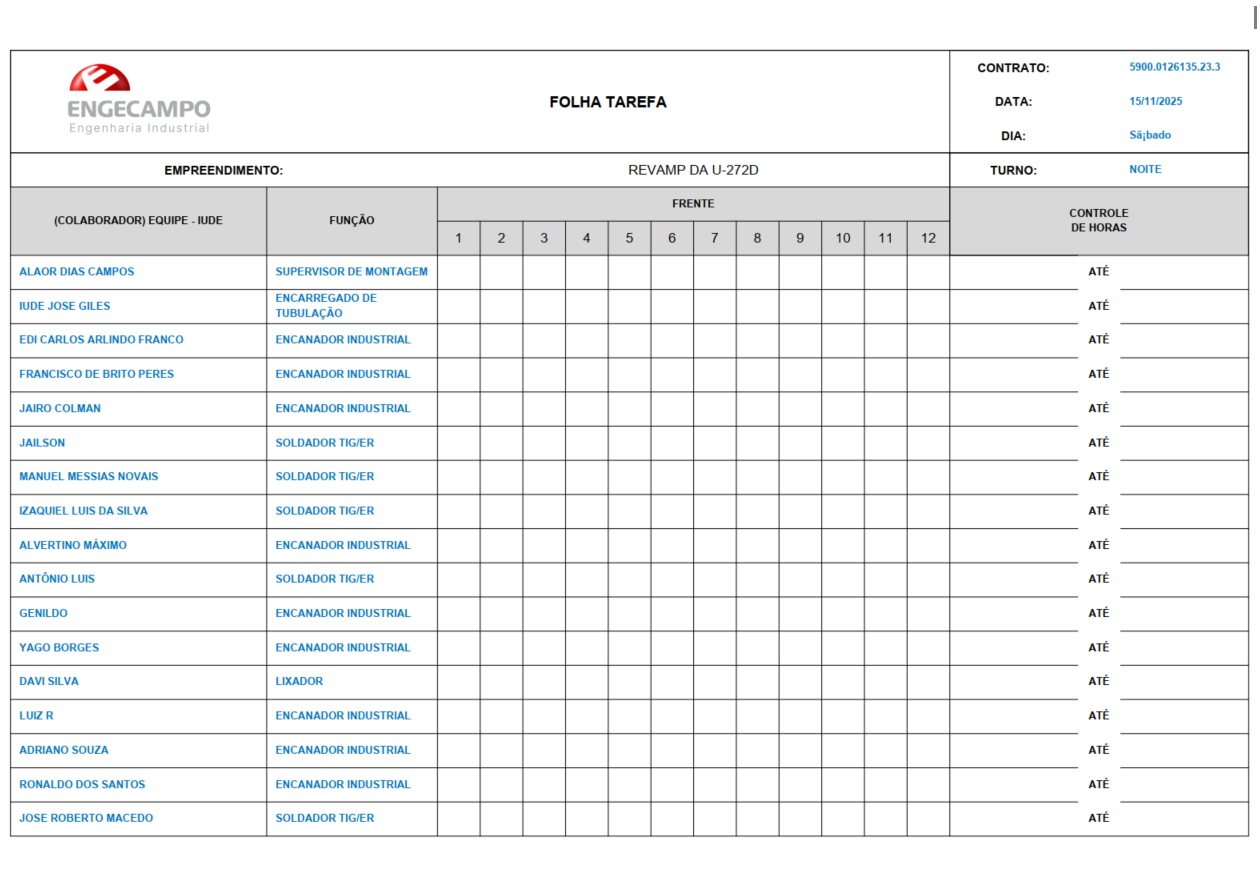
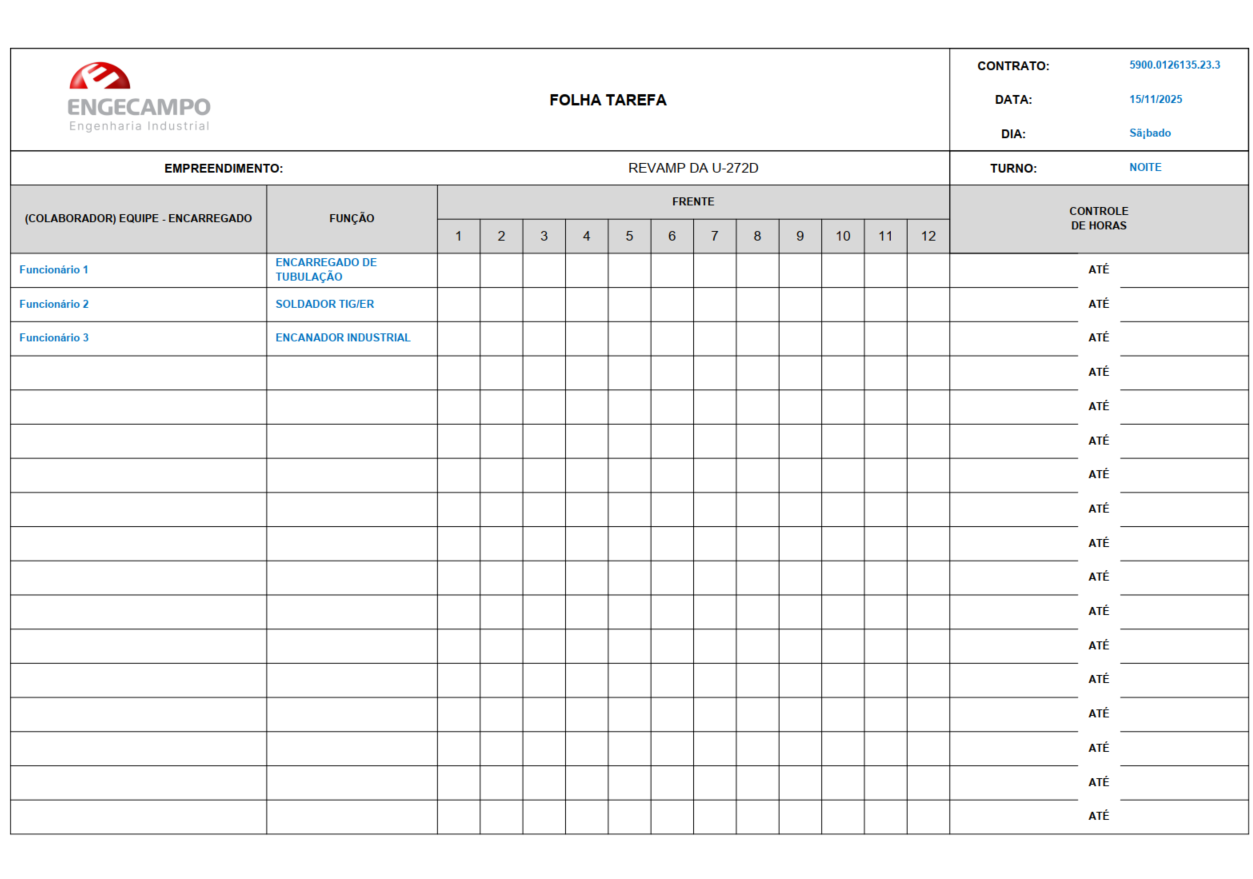
update

diff --git a/equipes.py b/equipes.py
@@ -1,317 +1,11 @@
 # Arquivo separado só para manter as equipes
+# Deve haver pelo menos um ENCARREGADO por equipe
+#Siga o Modelo para definir as Equipes, caso a equipe não seja mapeada, a capa será gerada com o nome do encarregado e a listagem vazia para preenchimento manual
 EQUIPES = {
-    "LETÍCIA":[
-        {"NOME":"Letícia Nascimento Santos de Lima","FUNÇÃO":"ENCARREGADO DE TI"},
-        {"NOME":"","FUNÇÃO":""},
+    "ENCARREGADO":[
+        {"NOME":"Funcionário 1","FUNÇÃO":"ENCARREGADO DE TUBULAÇÃO"},
+        {"NOME":"Funcionário 2","FUNÇÃO":" SOLDADOR TIG/ER "},
+        {"NOME":"Funcionário 3","FUNÇÃO":" ENCANADOR INDUSTRIAL "},
     ],
-    "LICURI": [  
-        {"NOME": "ALAOR DIAS CAMPOS", "FUNÇÃO": "SUPERVISOR DE MONTAGEM"},  
-        {"NOME": "RAIMUNDO FELIX DE ALMEIDA", "FUNÇÃO": "ENCARREGADO DE TUBULAÇÃO"},  
-        {"NOME": "ANTONIO RAIMUNDO RIBEIRO FILHO", "FUNÇÃO": "ENCANADOR INDUSTRIAL"},  
-        {"NOME": "VANDERLEY FRANCISCO SANTOS", "FUNÇÃO": "ENCANADOR INDUSTRIAL"},  
-        {"NOME": "EDMILSON MUNIZ DOS SANTOS JUNIOR", "FUNÇÃO": "ENCANADOR INDUSTRIAL"},  
-        {"NOME": "EDSON FERREIRA", "FUNÇÃO": "ENCANADOR INDUSTRIAL"},  
-        {"NOME": "JOSE GABRIEL DE ALMEIDA", "FUNÇÃO": "ENCANADOR INDUSTRIAL"},  
-        {"NOME": "CLEBER ALVES", "FUNÇÃO": "SOLDADOR TIG/ER"},  
-        {"NOME": "REGINALDO ROCHA DA SILVA", "FUNÇÃO": "SOLDADOR TIG/ER"},  
-        {"NOME": "FRANCISCO YURI DE SOUSA OLIVEIRA", "FUNÇÃO": "AJUDANTE"},  
-        {"NOME": "GEOVANI CARVALHO", "FUNÇÃO": "AJUDANTE"},  
-        {"NOME": "ANTÔNIO CARLOS", "FUNÇÃO": "ENCANADOR INDUSTRIAL"},  
-        {"NOME": "VALMIR MARCIANO", "FUNÇÃO": "MECÂNICO"},  
-        {"NOME": "ROBERT RICARDO", "FUNÇÃO": "SOLDADOR TIG/ER"}  
-    ],  
-
-    "IUDE": [  
-        {"NOME": "ALAOR DIAS CAMPOS", "FUNÇÃO": "SUPERVISOR DE MONTAGEM"},  
-        {"NOME": "IUDE JOSE GILES", "FUNÇÃO": "ENCARREGADO DE TUBULAÇÃO"},  
-        {"NOME": "EDI CARLOS ARLINDO FRANCO", "FUNÇÃO": "ENCANADOR INDUSTRIAL"},  
-        {"NOME": "FRANCISCO DE BRITO PERES", "FUNÇÃO": "ENCANADOR INDUSTRIAL"},  
-        {"NOME": "JAIRO COLMAN", "FUNÇÃO": "ENCANADOR INDUSTRIAL"},  
-        {"NOME": "JAILSON", "FUNÇÃO": "SOLDADOR TIG/ER"},  
-        {"NOME": "MANUEL MESSIAS NOVAIS", "FUNÇÃO": "SOLDADOR TIG/ER"},  
-        {"NOME": "IZAQUIEL LUIS DA SILVA", "FUNÇÃO": "SOLDADOR TIG/ER"},  
-        {"NOME": "ALVERTINO MÁXIMO", "FUNÇÃO": "ENCANADOR INDUSTRIAL"},  
-        {"NOME": "ANTÔNIO LUIS", "FUNÇÃO": "SOLDADOR TIG/ER"},  
-        {"NOME": "GENILDO", "FUNÇÃO": "ENCANADOR INDUSTRIAL"},  
-        {"NOME": "YAGO BORGES", "FUNÇÃO": "ENCANADOR INDUSTRIAL"},  
-        {"NOME": "DAVI SILVA", "FUNÇÃO": "LIXADOR"},  
-        {"NOME": "LUIZ R", "FUNÇÃO": "ENCANADOR INDUSTRIAL"},  
-        {"NOME": "ADRIANO SOUZA", "FUNÇÃO": "ENCANADOR INDUSTRIAL"},  
-        {"NOME": "RONALDO DOS SANTOS", "FUNÇÃO": "ENCANADOR INDUSTRIAL"},  
-        {"NOME": "JOSE ROBERTO MACEDO", "FUNÇÃO": "SOLDADOR TIG/ER"}  
-    ],  
-
-    "CHIQUINHO": [  
-        {"NOME": "ALAOR DIAS CAMPOS", "FUNÇÃO": "SUPERVISOR DE MONTAGEM"},  
-        {"NOME": "FRANCISCO DA CHAGAS CARVALHO DE ARAUJO", "FUNÇÃO": "ENCARREGADO DE TUBULAÇÃO"},  
-        {"NOME": "JORGE PEREIRA DA SILVA", "FUNÇÃO": "ENCANADOR INDUSTRIAL"},  
-        {"NOME": "ANTONIO BENICIO DA SILVA", "FUNÇÃO": "ENCANADOR INDUSTRIAL"},  
-        {"NOME": "VALDECIR FERREIRA FOSSAT", "FUNÇÃO": "ENCANADOR INDUSTRIAL"},  
-        {"NOME": "FRANCISCO RODRIGUES REZENDES", "FUNÇÃO": "ENCANADOR INDUSTRIAL"},  
-        {"NOME": "SANDRO COPETTI AGERTT", "FUNÇÃO": "SOLDADOR TIG/ER"},  
-        {"NOME": "ERIVAN CHAGAS MAGALHÃES DA SILVA", "FUNÇÃO": "SOLDADOR TIG/ER"},  
-        {"NOME": "JAIR RODRIGUES DE OLIVEIRA", "FUNÇÃO": "ENCANADOR INDUSTRIAL"},  
-        {"NOME": "DAVID APARECIDO", "FUNÇÃO": "ENCANADOR INDUSTRIAL"},  
-        {"NOME": "SIDNEI ALEX", "FUNÇÃO": "ENCANADOR INDUSTRIAL"},  
-        {"NOME": "WELLINGTON TEIXEIRA", "FUNÇÃO": "AJUDANTE"},  
-        {"NOME": "WEMERSON", "FUNÇÃO": "AJUDANTE"}  
-    ],  
-
-    "DEDÉ": [  
-        {"NOME": "ALAOR DIAS CAMPOS", "FUNÇÃO": "SUPERVISOR DE MONTAGEM"},  
-        {"NOME": "WELLINGHTON MARTINS", "FUNÇÃO": "ENCARREGADO DE TUBULAÇÃO"},  
-        {"NOME": "ANTÔNIO DOS SANTOS", "FUNÇÃO": "ENCANADOR INDUSTRIAL"},  
-        {"NOME": "VICTOR CAVALCANTE", "FUNÇÃO": "AJUDANTE"},  
-        {"NOME": "CICERO DE SOUZA", "FUNÇÃO": "AJUDANTE"},  
-        {"NOME": "JADAELSON", "FUNÇÃO": "SOLDADOR TIG/ER"},  
-        {"NOME": "FRANCISCO DE ASSIS", "FUNÇÃO": "SOLDADOR TIG/ER"},  
-        {"NOME": "JOSÉ WILSON", "FUNÇÃO": "ENCANADOR INDUSTRIAL"},  
-        {"NOME": "HIGOR TAYLAN", "FUNÇÃO": "AJUDANTE"},  
-        {"NOME": "PEDRO LIMA", "FUNÇÃO": "ENCANADOR INDUSTRIAL"}  
-    ],  
-    "MAGALHAES": [  
-        {"NOME": "ALAOR DIAS CAMPOS", "FUNÇÃO": "SUPERVISOR DE MONTAGEM"},  
-        {"NOME": "JOSÉ DA SILVA MAGALHÃES", "FUNÇÃO": "ENCARREGADO DE TUBULAÇÃO"},  
-        {"NOME": "AURÉLIO PEREIRA", "FUNÇÃO": "ENCANADOR INDUSTRIAL"},  
-        {"NOME": "OZIEL DA CRUZ", "FUNÇÃO": "ENCANADOR INDUSTRIAL"},  
-        {"NOME": "SILVIO", "FUNÇÃO": "ENCANADOR INDUSTRIAL"},  
-        {"NOME": "DAVID", "FUNÇÃO": "ENCANADOR INDUSTRIAL"},  
-        {"NOME": "JOAQUIM APARECIDO VAZ PEREIRA", "FUNÇÃO": "SOLDADOR TIG/ER"},  
-        {"NOME": "JOAQUIM", "FUNÇÃO": "ENCANADOR INDUSTRIAL"},  
-        {"NOME": "FRANCISMAR", "FUNÇÃO": "SOLDADOR TIG/ER"},  
-        {"NOME": "NATAL", "FUNÇÃO": "ENCANADOR INDUSTRIAL"},  
-        {"NOME": "ANTÔNIO JOSÉ", "FUNÇÃO": "ENCANADOR INDUSTRIAL"},  
-        {"NOME": "ANTÔNIO", "FUNÇÃO": "ENCANADOR INDUSTRIAL"}  
-    ],  
-
-    "RENILDO": [  
-        {"NOME": "SUPERVISOR", "FUNÇÃO": "SUPERVISOR DE MONTAGEM"},  
-        {"NOME": "RENILDO DOS SANTOS", "FUNÇÃO": "ENCARREGADO DE TUBULAÇÃO"},  
-        {"NOME": "GLAUBERSON", "FUNÇÃO": "ENCANADOR INDUSTRIAL"},  
-        {"NOME": "WELLINGTON", "FUNÇÃO": "ENCANADOR INDUSTRIAL"},  
-        {"NOME": "CLEUSON SENA", "FUNÇÃO": "ENCANADOR INDUSTRIAL"},  
-        {"NOME": "VANDERLEI", "FUNÇÃO": "ENCANADOR INDUSTRIAL"}  
-    ],  
-
-    "JOSE": [  
-        {"NOME": "SUPERVISOR", "FUNÇÃO": "SUPERVISOR DE MONTAGEM"},  
-        {"NOME": "JOSE JORGE ROCHA", "FUNÇÃO": "ENCARREGADO DE TUBULAÇÃO"},  
-        {"NOME": "ADRIANO DE JESUS", "FUNÇÃO": "ENCANADOR INDUSTRIAL"},  
-        {"NOME": "ELEMILTON MOREIRA", "FUNÇÃO": "ENCANADOR INDUSTRIAL"},  
-        {"NOME": "JAILSON ADALBERTO", "FUNÇÃO": "ENCANADOR INDUSTRIAL"},  
-        {"NOME": "JAIME BARBOSA", "FUNÇÃO": "ENCANADOR INDUSTRIAL"},  
-        {"NOME": "JORGE FERNANDES", "FUNÇÃO": "ENCANADOR INDUSTRIAL"},  
-        {"NOME": "WAGNER MARQUES", "FUNÇÃO": "ENCANADOR INDUSTRIAL"},  
-        {"NOME": "VALMIR ARAGÃO", "FUNÇÃO": "ENCANADOR INDUSTRIAL"},  
-        {"NOME": "JOSÉ TIBURCIO", "FUNÇÃO": "ENCANADOR INDUSTRIAL"}  
-    ],  
-
-    "ADRIANO": [  
-        {"NOME": "SUPERVISOR", "FUNÇÃO": "SUPERVISOR DE MONTAGEM"},  
-        {"NOME": "ADRIANO CARVALHO", "FUNÇÃO": "ENCARREGADO DE TUBULAÇÃO"},  
-        {"NOME": "FRANCISCO REZENDE", "FUNÇÃO": "ENCANADOR INDUSTRIAL"},  
-        {"NOME": "ADAILTON NASCIMENTO", "FUNÇÃO": "ENCANADOR INDUSTRIAL"},  
-        {"NOME": "JOSÉ CARLOS", "FUNÇÃO": "ENCANADOR INDUSTRIAL"},  
-        {"NOME": "ANTONIO MARCIO", "FUNÇÃO": "ENCANADOR INDUSTRIAL"},  
-        {"NOME": "ALEXANDRE BARBOSA", "FUNÇÃO": "SOLDADOR TIG/ER"}  
-    ],  
-
-    "GEORGE": [  
-        {"NOME": "SUPERVISOR", "FUNÇÃO": "SUPERVISOR DE MONTAGEM"},  
-        {"NOME": "GEORGE ANUNCIAÇÃO SANTOS", "FUNÇÃO": "ENCARREGADO DE TUBULAÇÃO"},  
-        {"NOME": "WALLEX VIANA", "FUNÇÃO": "ENCANADOR INDUSTRIAL"},  
-        {"NOME": "ANDERSON DA PORIFICAÇÃO BANDEIRA", "FUNÇÃO": "ENCANADOR INDUSTRIAL"},  
-        {"NOME": "BENITIZ", "FUNÇÃO": "ENCANADOR INDUSTRIAL"},  
-        {"NOME": "RAMMON FERREIRA", "FUNÇÃO": "ENCANADOR INDUSTRIAL"},  
-        {"NOME": "DENILSON REIS SOUSA", "FUNÇÃO": "ENCANADOR INDUSTRIAL"},  
-        {"NOME": "JAILTON PEREIRA", "FUNÇÃO": "ENCANADOR INDUSTRIAL"},  
-        {"NOME": "SUENIL DE SOUZA", "FUNÇÃO": "ENCANADOR INDUSTRIAL"},  
-        {"NOME": "JOSENALDO CARVALHO", "FUNÇÃO": "ENCANADOR INDUSTRIAL"}  
-    ],  
-
-    "VALMIR": [  
-        {"NOME": "SUPERVISOR", "FUNÇÃO": "SUPERVISOR DE MONTAGEM"},  
-        {"NOME": "VALMIR DOS SANTOS", "FUNÇÃO": "ENCARREGADO DE TUBULAÇÃO"},  
-        {"NOME": "EDISON FERREIRA", "FUNÇÃO": "ENCANADOR INDUSTRIAL"},  
-        {"NOME": "ANTONIO CARLOS DE OLIVEIRA", "FUNÇÃO": "ENCANADOR INDUSTRIAL"},  
-        {"NOME": "ADERALDE ALVES", "FUNÇÃO": "ENCANADOR INDUSTRIAL"},  
-        {"NOME": "ANTONIO BEZERRA", "FUNÇÃO": "ENCANADOR INDUSTRIAL"}  
-    ],  
-    #ANDAIME
-    "JOAO": [  
-        {"NOME": "RUY CRUZ NUNES", "FUNÇÃO": "SUPERVISOR DE ANDAIME"},  
-        {"NOME": "JOAO PAULO NUNES DA SILVA", "FUNÇÃO": "ENCARREGADO DE ANDAIME"},  
-        {"NOME": "MARCUS AURELIO SILVA DE OLIVEIRA", "FUNÇÃO": "MONTADOR DE ANDAIME"},  
-        {"NOME": "ELIZEU MORENO", "FUNÇÃO": "MONTADOR DE ANDAIME"},  
-        {"NOME": "JOAO BATISTA PLACIDO", "FUNÇÃO": "MONTADOR DE ANDAIME"},  
-        {"NOME": "LUCAS RODOLFO OLIVEIRA MEIRELLE ARNOU", "FUNÇÃO": "MONTADOR DE ANDAIME"},  
-        {"NOME": "ANDRÉ LUIS GONÇALVES", "FUNÇÃO": "MONTADOR DE ANDAIME"},  
-        {"NOME": "RANGEL ALEXANDRO ANJOS DA SILVA", "FUNÇÃO": "MONTADOR DE ANDAIME"},  
-        {"NOME": "FRANCISCO JAILSON", "FUNÇÃO": "MONTADOR DE ANDAIME"},  
-        {"NOME": "CESARNILDO", "FUNÇÃO": "MONTADOR DE ANDAIME"},  
-        {"NOME": "MARCELO HUGO", "FUNÇÃO": "MONTADOR DE ANDAIME"}  
-    ],  
-
-    "ANTONIO": [  
-        {"NOME": "RUY CRUZ NUNES", "FUNÇÃO": "SUPERVISOR DE ANDAIME"},  
-        {"NOME": "ANTONIO JOSE PEREIRA BARROS", "FUNÇÃO": "ENCARREGADO DE ANDAIME"},  
-        {"NOME": "JOSÉ LUIZ RIBEIRO DA SILVA", "FUNÇÃO": "MONTADOR DE ANDAIME"},  
-        {"NOME": "GEREMIAS DE SOUSA COSTA", "FUNÇÃO": "MONTADOR DE ANDAIME"},  
-        {"NOME": "KELSON SOUSA SOARES", "FUNÇÃO": "MONTADOR DE ANDAIME"},  
-        {"NOME": "DOMINGOS PEREIRA DA SILVA", "FUNÇÃO": "MONTADOR DE ANDAIME"},  
-        {"NOME": "LUAN RODRIGUES DOS SANTOS", "FUNÇÃO": "MONTADOR DE ANDAIME"},  
-        {"NOME": "MARCOS DANIEL", "FUNÇÃO": "MONTADOR DE ANDAIME"},  
-        {"NOME": "CAIQUE MENDONÇA", "FUNÇÃO": "MONTADOR DE ANDAIME"},  
-        {"NOME": "RONILSON DE SOUZA BARBOSA", "FUNÇÃO": "MONTADOR DE ANDAIME"},  
-        {"NOME": "JOSE LUIS", "FUNÇÃO": "MONTADOR DE ANDAIME"},  
-        {"NOME": "RONILSON DE SOUZA", "FUNÇÃO": "MONTADOR DE ANDAIME"}  
-    ],  
-
-    "JOSECI": [  
-        {"NOME": "RUY CRUZ NUNES", "FUNÇÃO": "SUPERVISOR DE ANDAIME"},  
-        {"NOME": "JOSECI", "FUNÇÃO": "ENCARREGADO DE ANDAIME"},  
-        {"NOME": "JURACI SOUZA COSTA", "FUNÇÃO": "MONTADOR DE ANDAIME"},  
-        {"NOME": "JOSÉ LUIZ", "FUNÇÃO": "MONTADOR DE ANDAIME"},  
-        {"NOME": "FERNANDO RUFINO", "FUNÇÃO": "MONTADOR DE ANDAIME"},  
-        {"NOME": "LIMARCIO VIEIRA", "FUNÇÃO": "MONTADOR DE ANDAIME"},  
-        {"NOME": "DOMIREZ CARMO", "FUNÇÃO": "MONTADOR DE ANDAIME"},  
-        {"NOME": "JOSÉ WILON COSTA", "FUNÇÃO": "MONTADOR DE ANDAIME"},  
-        {"NOME": "ATEVALDO ARAUJO SOUSA", "FUNÇÃO": "MONTADOR DE ANDAIME"}  
-    ],  
-
-    "CÉLIO": [  
-        {"NOME": "RUY CRUZ NUNES", "FUNÇÃO": "SUPERVISOR DE ANDAIME"},  
-        {"NOME": "CÉLIO DANTAS DE SOUZA", "FUNÇÃO": "ENCARREGADO DE ANDAIME"},  
-        {"NOME": "JOSÉ HILTON DE SOUSA ROCHA", "FUNÇÃO": "MONTADOR DE ANDAIME"},  
-        {"NOME": "ANTÔNIO SEBASTIÃO RAMOS DA CUNHA", "FUNÇÃO": "MONTADOR DE ANDAIME"},  
-        {"NOME": "WILLIAM LIMA DE SOUSA", "FUNÇÃO": "MONTADOR DE ANDAIME"},  
-        {"NOME": "JAIR SANTANA", "FUNÇÃO": "MONTADOR DE ANDAIME"},  
-        {"NOME": "ALLAN JORGE DO PRADO", "FUNÇÃO": "MONTADOR DE ANDAIME"},  
-        {"NOME": "ELIVELTON MIRANDA DE OLIVEIRA", "FUNÇÃO": "MONTADOR DE ANDAIME"},  
-        {"NOME": "PAULO SÉRGIO", "FUNÇÃO": "MONTADOR DE ANDAIME"},  
-        {"NOME": "ANÉSIO DE PAULA", "FUNÇÃO": "MONTADOR DE ANDAIME"}  
-    ],  
-
-    "MARCIEL": [  
-        {"NOME": "RUY CRUZ NUNES", "FUNÇÃO": "SUPERVISOR DE ANDAIME"}, 
-        {"NOME": "MARCIEL CONCEIÇÃO SANTOS", "FUNÇÃO": "ENCARREGADO DE ANDAIME"}, 
-        {"NOME": "ROBERT REINAN", "FUNÇÃO": "MONTADOR DE ANDAIME"},  
-        {"NOME": "WELLINGTON DUTRA", "FUNÇÃO": "MONTADOR DE ANDAIME"},  
-        {"NOME": "DHONHES DIONISIO", "FUNÇÃO": "MONTADOR DE ANDAIME"},  
-        {"NOME": "CLEITON GUIMARÃES", "FUNÇÃO": "MONTADOR DE ANDAIME"},  
-        {"NOME": "JAIR SANTANA DE JESUS", "FUNÇÃO": "MONTADOR DE ANDAIME"},  
-        {"NOME": "LOURIVALDO JESUS ARAUJO", "FUNÇÃO": "MONTADOR DE ANDAIME"},  
-        {"NOME": "JOÃO LUIZ", "FUNÇÃO": "MONTADOR DE ANDAIME"},  
-        {"NOME": "JOSÉ JOAQUIM", "FUNÇÃO": "MONTADOR DE ANDAIME"},
-        {"NOME": "EDUARDO CAETANO", "FUNÇÃO": "MONTADOR DE ANDAIME"},
-        {"NOME": "ERIVALDO DE JESUS", "FUNÇÃO": "MONTADOR DE ANDAIME"},
-    ],  
-    #ELÉTRICA
-    "RAIMUNDO": [  
-        {"NOME": "RAFAEL FARIA", "FUNÇÃO": "ENG. ELETRICISTA"},  
-        {"NOME": "RÉGIS TRAJANO", "FUNÇÃO": "SUPERVISOR DE ELÉTRICA/INSTRUMENTAÇÃO"},  
-        {"NOME": "RAIMUNDO", "FUNÇÃO": "ENCARREGADO ELÉTRICA"},  
-        {"NOME": "ALEXANDRE PEREIRA LIMA", "FUNÇÃO": "ELETR. MONTADOR"},  
-        {"NOME": "FÁBIO CLAUDINO GONÇALVES", "FUNÇÃO": "AJUDANTE"},  
-        {"NOME": "JÚLIO", "FUNÇÃO": "ELETRICISTA F/C"},  
-        {"NOME": "WANDERSON ALVES DE OLIVEIRA", "FUNÇÃO": "ELETR.MONTADOR"},  
-        {"NOME": "ADAIR", "FUNÇÃO": "ELETRICISTA F/C"},  
-        {"NOME": "JONE CASSIO", "FUNÇÃO": "ELETRICISTA F/C"},  
-        {"NOME": "FABRICIO CONCEIÇÃO", "FUNÇÃO": "ELETR.MONTADOR"},  
-        {"NOME": "MAURO JEAN DE MACEDO", "FUNÇÃO": "ELETR.MONTADOR"},  
-        {"NOME": "JOSÉ FRANCISCO DE SOUZA", "FUNÇÃO": "ELETR.MONTADOR"},  
-        {"NOME": "WILSON SOUZA DE JESUS", "FUNÇÃO": "ELETR.MONTADOR"},  
-        {"NOME": "LUCAS", "FUNÇÃO": "INSTRUMENTISTA"},  
-        {"NOME": "EDMAR", "FUNÇÃO": "ELETRICISTA DE MANUTENÇÃO"},  
-        {"NOME": "FERNANDO CAMPOS NUNES", "FUNÇÃO": "AJUDANTE"},  
-        {"NOME": "SERGIO CARDOSO PEREIRA", "FUNÇÃO": "ELETRICISTA F/C"},  
-        {"NOME": "ANTONIO JERONIMO DA SILVA", "FUNÇÃO": "ELETRICISTA DE MANUTENÇÃO"}  
-    ],  
-
-    "GILSON": [  
-        {"NOME": "RAFAEL FARIA", "FUNÇÃO": "ENG. ELETRICISTA"},  
-        {"NOME": "RÉGIS TRAJANO", "FUNÇÃO": "SUPERVISOR DE ELÉTRICA/INSTRUMENTAÇÃO"},  
-        {"NOME": "GILSON MONTELO DA SILVA", "FUNÇÃO": "ENCARREGADO INSTRUMENTAÇÃO"},  
-        {"NOME": "FELIPE", "FUNÇÃO": "ELETR.MONTADOR"},  
-        {"NOME": "ANTÔNIO FRANCISCO R. DA SILVA", "FUNÇÃO": "ELETR. MONTADOR"},  
-        {"NOME": "RONIVON DE SOUZA", "FUNÇÃO": "ELETR. MONTADOR"},  
-        {"NOME": "PAULO", "FUNÇÃO": "ELETR. MONTADOR"},  
-        {"NOME": "ABNOAN DOS SANTOS SILVA", "FUNÇÃO": "ELETR. MONTADOR"},  
-        {"NOME": "MANUEL PIMENTEL MIRANDA", "FUNÇÃO": "INSTRUMENTISTA"},  
-        {"NOME": "JOÃO MARQUES", "FUNÇÃO": "INSTRUMENTISTA"}  
-    ],  
-
-    "REGINALDO": [  
-        {"NOME": "RAFAEL FARIA", "FUNÇÃO": "ENG. ELETRICISTA"},  
-        {"NOME": "RÉGIS TRAJANO", "FUNÇÃO": "SUPERVISOR DE ELÉTRICA/INSTRUMENTAÇÃO"},  
-        {"NOME": "REGINALDO SANTOS DO SACRAMENTO", "FUNÇÃO": "ENCARREGADO DE ELÉTRICA"},  
-        {"NOME": "ADEMADIO FERNANDO DOS SANTOS", "FUNÇÃO": "ELETRICISTA F/C"},  
-        {"NOME": "CARLOS HENRIQUE S.S. NASCIMENTO", "FUNÇÃO": "ELETRICISTA F/C"},  
-        {"NOME": "MAILON SANTOS SOUZA", "FUNÇÃO": "ELETRICISTA F/C"},  
-        {"NOME": "ADALBERTO GONÇALVES DOS SANTOS", "FUNÇÃO": "ELETRICISTA MONTADOR"},  
-        {"NOME": "ANDERSON MORAES MONTEIRO", "FUNÇÃO": "ELETRICISTA MONTADOR"},  
-        {"NOME": "EDMILSON ASSUNÇÃO RIBEIRO", "FUNÇÃO": "ELETRICISTA F/C"},  
-        {"NOME": "LUCIANO TAVARES PINTO", "FUNÇÃO": "ELETRICISTA F/C"},  
-        {"NOME": "RICARDO DE JESUS SANTOS", "FUNÇÃO": "ELETRICISTA F/C"}  
-    ],  
-
-    "ANDERSON": [  
-        {"NOME": "RAFAEL FARIA", "FUNÇÃO": "ENG. ELETRICISTA"},  
-        {"NOME": "RÉGIS TRAJANO", "FUNÇÃO": "SUPERVISOR DE ELÉTRICA/INSTRUMENTAÇÃO"},  
-        {"NOME": "ANDERSON SABINO", "FUNÇÃO": "ENCARREGADO DE INSTRUMENTAÇÃO"},  
-        {"NOME": "LUCAS RODRIGUES FALCÃO", "FUNÇÃO": "ELETRICISTA F/C"},  
-        {"NOME": "ELCIO DAS NEVES", "FUNÇÃO": "INSTRUMENTISTA"}  
-    ],  
-    #COMISSIONAMENTO
-    "ELIEZER": [  
-        {"NOME": "ELIEZER GONÇALVES", "FUNÇÃO": "ENCARREGADO DE TUBULAÇÃO"},  
-        {"NOME": "SILVERTINA DA COSTA LIMA", "FUNÇÃO": "SOLDADOR TIG/ER"},  
-        {"NOME": "JOSE FRANCISCO RESENDE", "FUNÇÃO": "ENCANADOR"},  
-        {"NOME": "RAFAEL DE SOUZA SANTOS", "FUNÇÃO": "ENCANADOR"},  
-        {"NOME": "DOUGLIMAR ROCHA", "FUNÇÃO": "ENCANADOR"},  
-        {"NOME": "ALEX DONIZETTI DOS SANTOS", "FUNÇÃO": "ENCANADOR"},  
-        {"NOME": "ANTONIO DE PAULA DE OLIVEIRA", "FUNÇÃO": "ENCANADOR"},  
-        {"NOME": "ALAN BACELAR", "FUNÇÃO": "ENCANADOR"},  
-        {"NOME": "EVANILSO DE SOUZA TRINDADE", "FUNÇÃO": "ENCANADOR"}  
-    ],  
-
-    "FABIO": [  
-        {"NOME": "FABIO CRISPIM", "FUNÇÃO": "ENCARREGADO DE TUBULAÇÃO"}  
-    ],  
-    #PINTURA
-    "LUIZINHO": [  
-        {"NOME": "MARCIO MARTINS", "FUNÇÃO": "SUPERVISOR DE CIVIL"},  
-        {"NOME": "LUIZ EDUARDO DE ALMEIDA", "FUNÇÃO": "ENC. PINTURA"},  
-        {"NOME": "JOEMILSON OTAVIO LUSTOSA", "FUNÇÃO": "PINTOR"},  
-        {"NOME": "THIAGO HENRIQUE SILVA", "FUNÇÃO": "PINTOR"},  
-        {"NOME": "JOÃO CARLOS RODRIGUES SALES", "FUNÇÃO": "PINTOR"},  
-        {"NOME": "ERIVALDO PEREIRA GOMES", "FUNÇÃO": "PINTOR"},  
-        {"NOME": "ROBSON DA SILVA COSTA", "FUNÇÃO": "AJUDANTE"},  
-        {"NOME": "JACKSON GOMES", "FUNÇÃO": "PINTOR"}  
-    ],  
-    #CIVIL
-    "FRANCISCO": [  
-        {"NOME": "MARCIO MARTINS", "FUNÇÃO": "SUPERVISOR DE CIVIL"},  
-        {"NOME": "FRANCISCO CARLOS ALVES DE MORAIS", "FUNÇÃO": "ENCARREGADO DE CIVIL"},  
-        {"NOME": "RENATO MARQUES DOS SANTOS", "FUNÇÃO": "ENCARREGADO DE CIVIL"},  
-        {"NOME": "LUIZ ROBERTO MENEZES", "FUNÇÃO": "OPERADOR DE RETROESCAVADEIRA"},  
-        {"NOME": "JOSE FRANCISCO DE CARVALHO", "FUNÇÃO": "PEDREIRO"},  
-        {"NOME": "MODESTO PEREIRA DOS SANTOS", "FUNÇÃO": "PEDREIRO"},  
-        {"NOME": "LUIZ GOMES DOS SANTOS", "FUNÇÃO": "ARMADOR"},  
-        {"NOME": "JOÃO BATISTA MODESTO DA SILVA", "FUNÇÃO": "AJUDANTE"},  
-        {"NOME": "RAIMUNDO GINO DA SILVA SOBRINHO", "FUNÇÃO": "CARPINTEIRO"},  
-        {"NOME": "JOSE RIBAMAR DO NASCIMENTO PEREIRA", "FUNÇÃO": "CARPINTEIRO"},  
-        {"NOME": "MARCOS PEREIRA DE OLIVEIRA", "FUNÇÃO": "ARMADOR"}  
-    ],  
-    "GERIVALDO": [
-        {"NOME": "GERIVALDO SILVA SOUZA", "FUNÇÃO": "ENCARREGADO DE TUBULAÇÃO"},
-        {"NOME": "JONATAS FERREIRA", "FUNÇÃO": "ENCANADOR INDUSTRIAL"},
-        {"NOME": "NIELSON CASAIS DOS SANTOS", "FUNÇÃO": "ENCANADOR INDUSTRIAL"},
-        {"NOME": "RENILTON CASAIS PINTO", "FUNÇÃO": "ENCANADOR INDUSTRIAL"},
-        {"NOME": "UENDEL ROSA DOS SANTOS", "FUNÇÃO": "ENCANADOR INDUSTRIAL"},
-        {"NOME": "GEFFERSON PHILIPE RODRIGUES", "FUNÇÃO": "ENCANADOR INDUSTRIAL"},
-        {"NOME": "DANILO CORREIA DOS SANTOS", "FUNÇÃO": "ENCANADOR INDUSTRIAL"}
-    ],
-
 }
 
